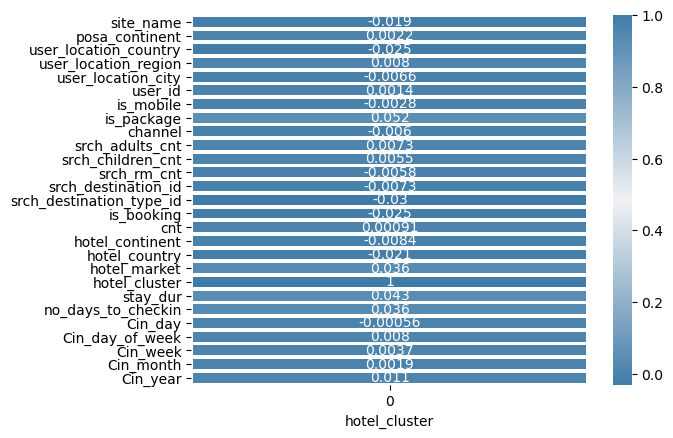
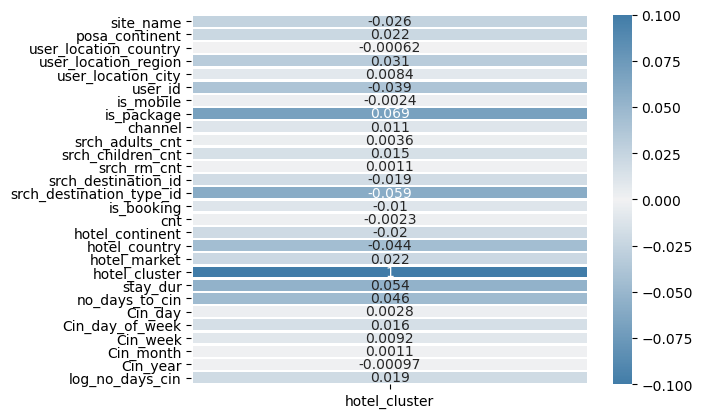
random stuff

diff --git a/code/data.py b/code/data.py
@@ -2,12 +2,16 @@ import pandas as pd
 import data_utils as du
 import matplotlib.pyplot as plt
 import seaborn as sns
+from matplotlib.pyplot import cm
 import numpy as np
 
-train = pd.read_csv('data/train.csv', nrows=100000)
+train = pd.read_csv('data/train.csv', nrows=10000)
 
 text = train.isna().sum(axis=0)
-du.save_table_fig(text, 'nas_cols')
+plt.figure(figsize=[3.8,4.8])
+sns.heatmap(text.values.reshape(text.shape[0],1), cmap=cm.Blues, yticklabels = text.index, cbar=False, vmin=100,
+            vmax=100, linewidths=2,  annot=True, fmt='g', xticklabels=['na_cols'])
+du.save_fig('na_cols')
 
 # determines how many rows contain the max num of nas (3)
 print(train[train.isna().sum(axis=1)==3].shape[0])
@@ -23,19 +27,56 @@ print(train[['srch_ci', 'srch_co', 'stay_dur']])
 
 print(train.corr()['hotel_cluster'])
 
-# same magnitudes (i.e. abs vals) get same colour
-cmap = sns.diverging_palette(240, 240, as_cmap=True)
 
-corr_table = train.corr()
-cols_corr = corr_table.columns.size
-
-plt.figure()
-fig = sns.heatmap(train.corr()['hotel_cluster'].values.reshape(cols_corr,1),
-                  yticklabels=corr_table.columns,  annot=True, linewidths=2, cmap=cmap)
-plt.xlabel('hotel_cluster')
-du.save_fig('corr')
 
 cols_names_nas = train.columns.where(train.isna().sum(axis=0)>0).dropna().tolist()
 du.fill_nas_with_max(cols_names_nas, train)
 print(train.isna().sum(axis=0))
+
+plt.figure()
+sns.countplot(x = 'no_days_to_cin', data=train)
+du.save_fig('no_days_cin')
+
+plt.figure()
+sns.countplot(x = 'stay_dur', data=train)
+du.save_fig('stay_dur')
+
+# same magnitudes (i.e. abs vals) get same colour
+cmap = sns.diverging_palette(240, 240, as_cmap=True)
+train['log_no_days_cin'] = np.log(train["no_days_to_cin"])
+
+corr_table = train.corr()
+cols_corr = corr_table.columns.size
+
+
+plt.figure()
+sns.heatmap(train.corr()['hotel_cluster'].values.reshape(cols_corr, 1), yticklabels=corr_table.columns,
+                  xticklabels= ['hotel_cluster'], annot=True, linewidths=1, center=0, cmap=cmap, vmin=-0.1, vmax=0.1)
+du.save_fig('corr')
+
+train.info()
+
+plt.figure()
+
+sns.scatterplot(x="hotel_cluster", y="is_package", data=train)
+du.save_fig('boxplot')
+
+
+
+# plot all columns countplots
+# rows = train.columns.size//3 - 1
+# fig, axes = plt.subplots(nrows=rows, ncols=3, figsize=(12,18))
+# fig.tight_layout()
+# i = 0
+# j = 0
+# for col in train.columns:
+#     if j >= 3:
+#         j = 0
+#         i += 1
+#     # avoid to plot by date
+#     if (train[col].dtype == np.int64) | (train[col].dtype == np.float64) | (train[col].dtype == np.uint32):
+#         sns.countplot(x=col, data=train, ax=axes[i][j])
+#         j += 1
+#
+# du.save_fig('all_count_plots')
 

diff --git a/code/data_utils.py b/code/data_utils.py
@@ -4,6 +4,7 @@ import pandas as pd
 import numpy as np
 from numpy.linalg import norm
 import matplotlib.pyplot as plt
+import seaborn as sns
 from pandas.plotting import table
 import scipy.sparse
 from scipy.optimize import approx_fprime
@@ -15,16 +16,14 @@ def save_fig(fname, verbose=True):
         print("Figure saved as '{}'".format(path))
 
 def save_table_fig(df, fname, verbose=True):
-    ax = plt.subplot(frame_on=False)
-    ax.xaxis.set_visible(False)
-    ax.yaxis.set_visible(False)
-    table(ax, df, loc='center')
+    plt.figure()
+    sns.heatmap(df.values.reshape(df.shape[0],1), yticklabels = df.index, cbar=False,  annot=True, fmt='g')
     save_fig(fname, verbose)
 
 def dates_to_vars(df):
     df[['srch_ci', 'srch_co', 'date_time']] = df[['srch_ci', 'srch_co', 'date_time']].apply(pd.to_datetime)
     df['stay_dur'] = (df['srch_co'] - df['srch_ci']).dt.days
-    df['no_days_to_checkin'] = (df['srch_ci'] - df['date_time']).dt.days
+    df['no_days_to_cin'] = (df['srch_ci'] - df['date_time']).dt.days
     # should we do number of weeks to checkin, number of months, number of days?
 
     # For hotel check-in
@@ -44,7 +43,10 @@ def fill_nas_with_max(cols, df):
 #
 # def drop_vars(df):
 
-
+# thing I want to do
+# drop variables
+# look at plots of categorical variables
+# group weeks together or delete categories based on counts
 
 
 
